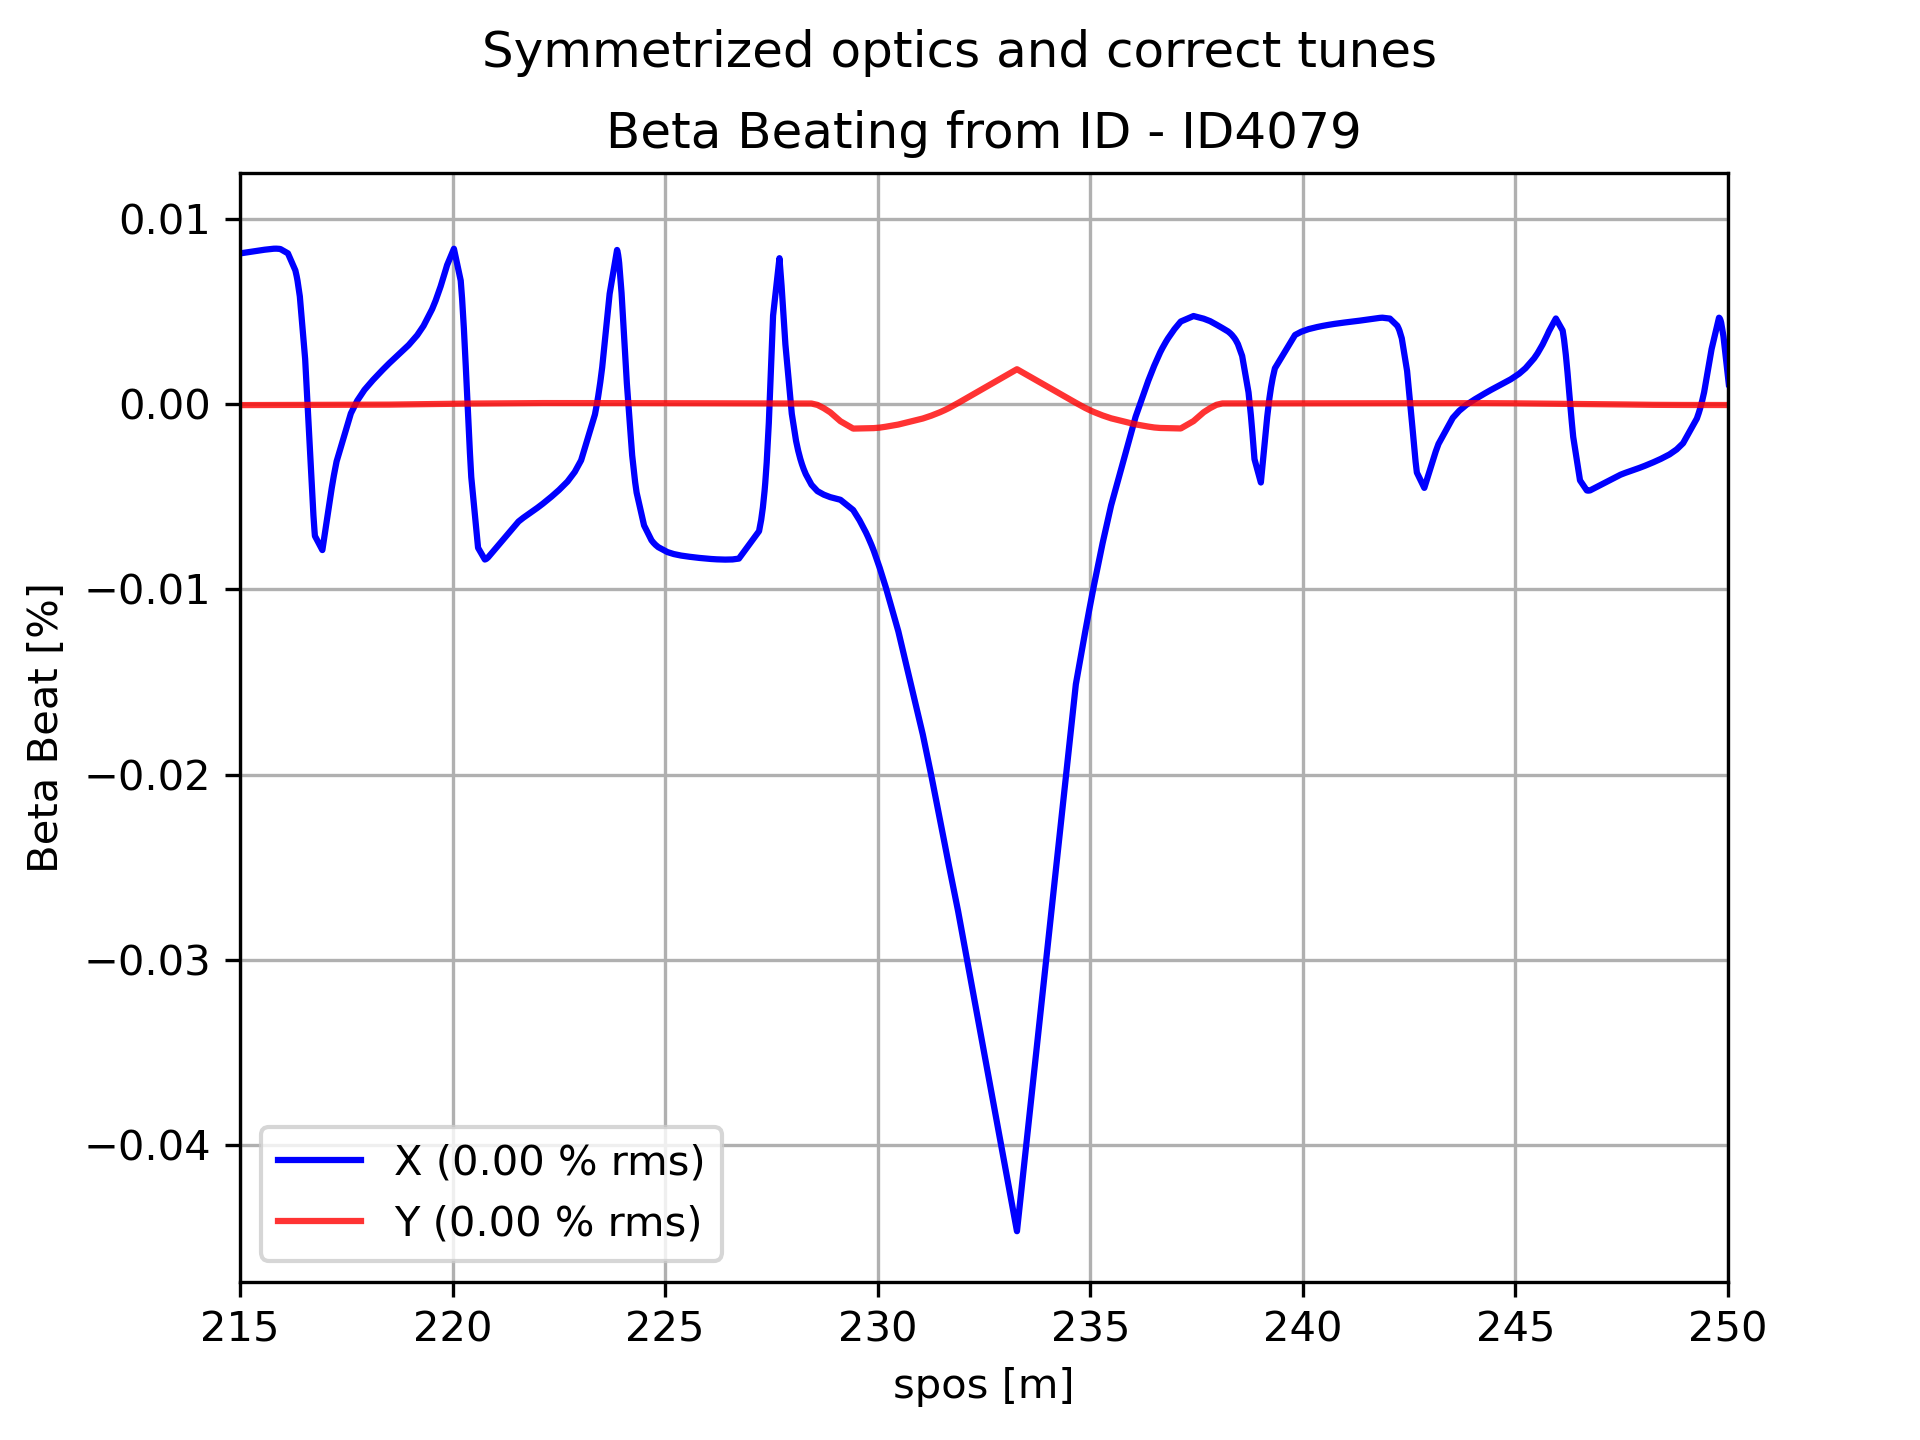
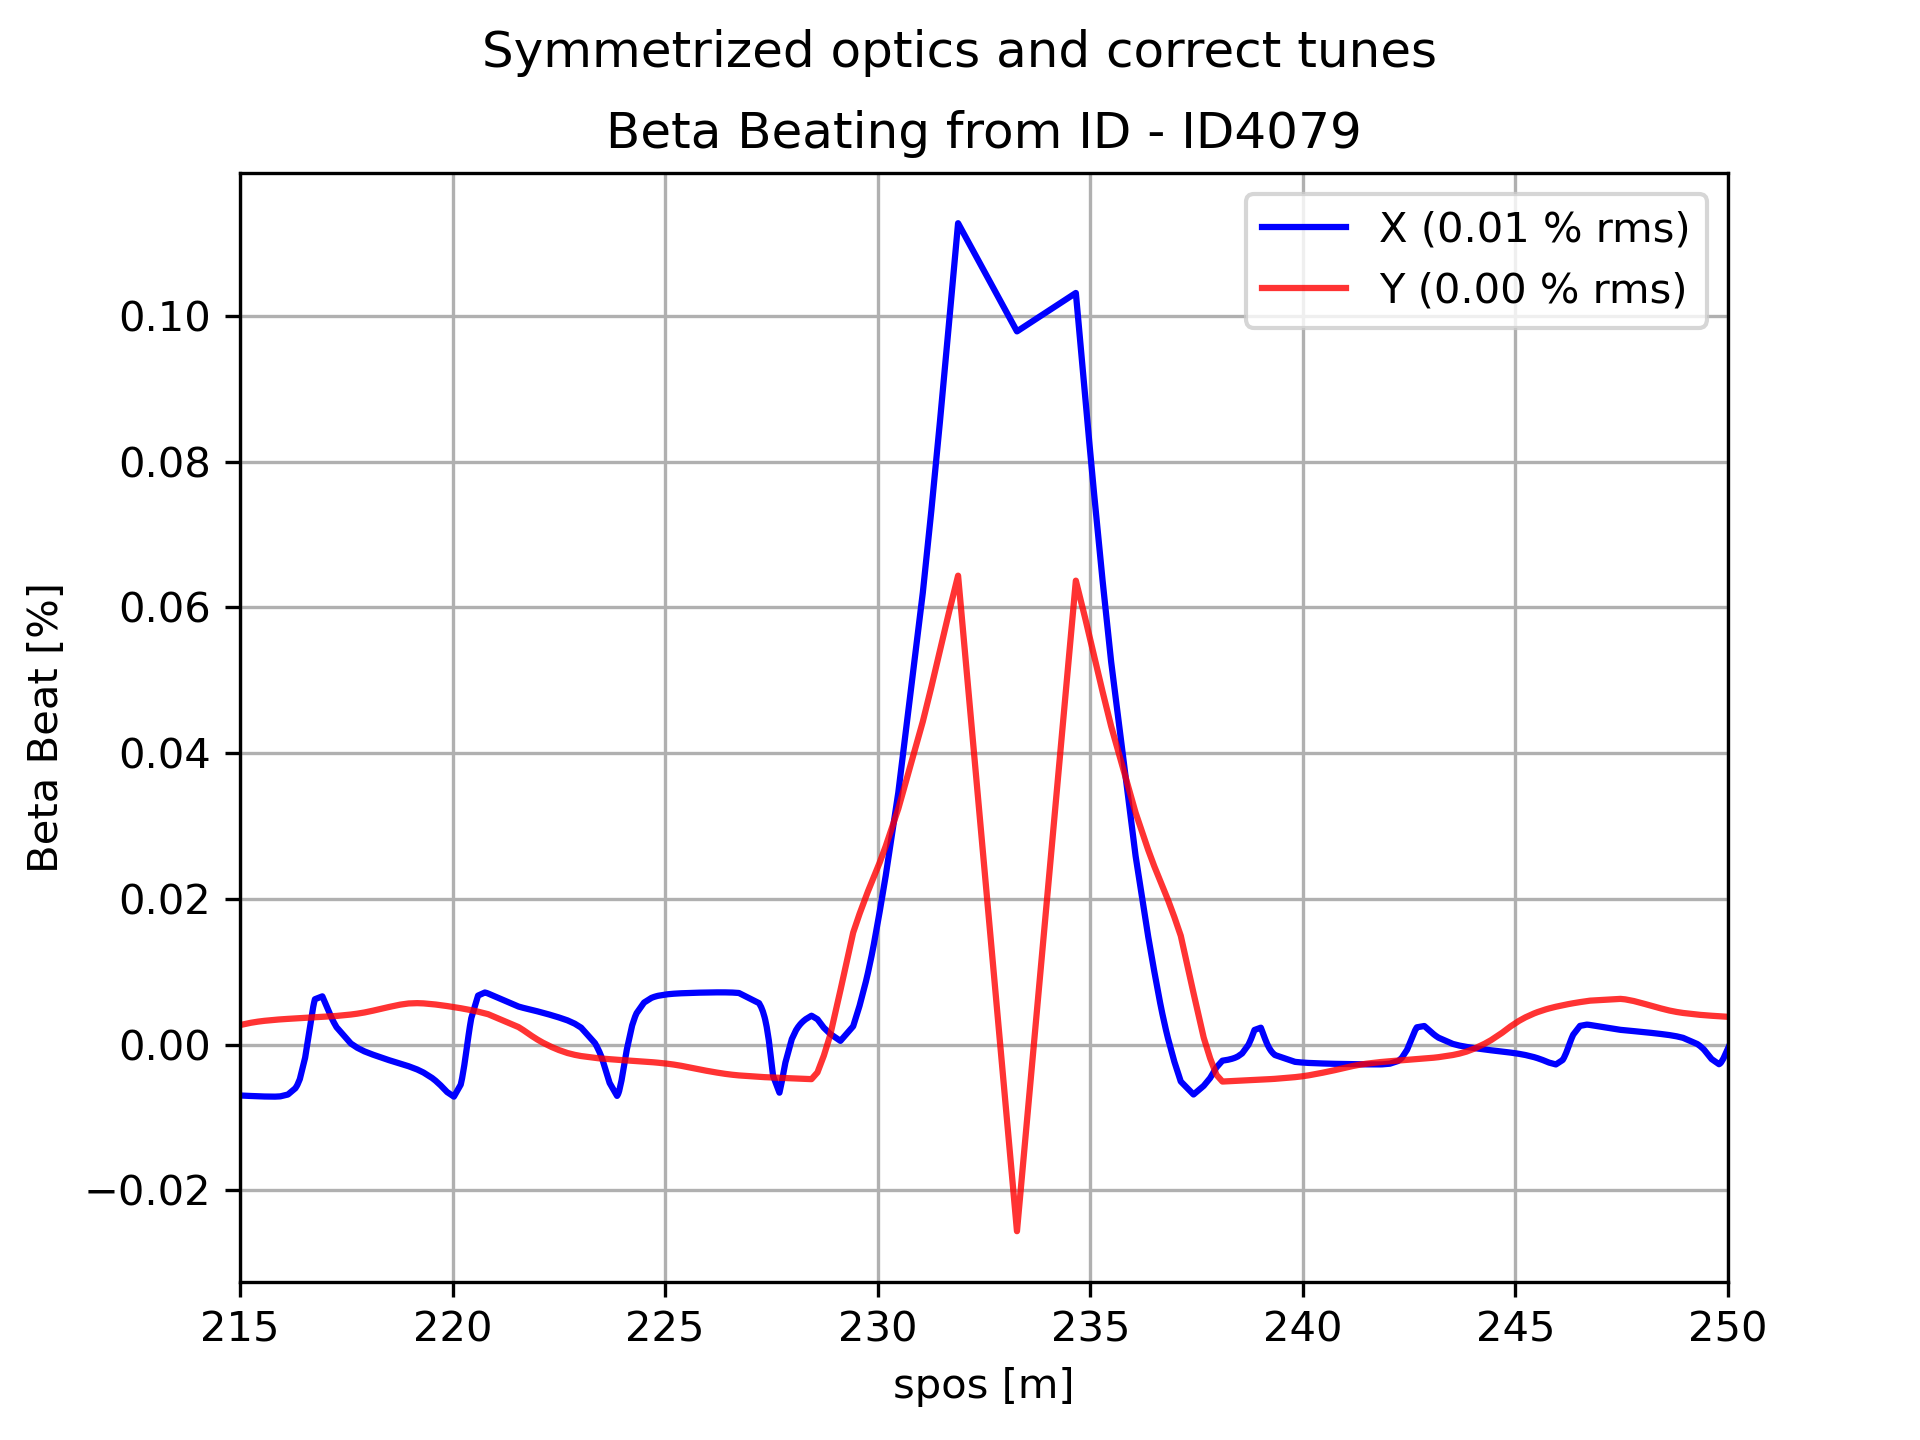
update repos

diff --git a/scripts/epu/check_kickmap.py b/scripts/epu/check_kickmap.py
@@ -11,6 +11,7 @@ from idanalysis import IDKickMap
 import utils
 from idanalysis import IDKickMap
 from pyaccel import lattice as pyacc_lat
+from run_rk_traj import PHASES, GAPS
 
 
 def calc_idkmap_kicks(plane_idx=0, plot_flag=False, idkmap=None):
@@ -25,8 +26,8 @@ def calc_idkmap_kicks(plane_idx=0, plot_flag=False, idkmap=None):
     pxf = (idkmap.kickx[0, :] + kickx_end) / brho**2
     pyf = (idkmap.kicky[0, :] + kicky_end) / brho**2
     if plot_flag:
-        plt.plot(1e3*rx0, 1e6*pxf, label='Kick X', color='C1')
-        plt.plot(1e3*rx0, 1e6*pyf, label='Kick Y', color='b')
+        plt.plot(1e3*rx0, 1e6*pxf, '.-', label='Kick X', color='C1')
+        plt.plot(1e3*rx0, 1e6*pyf, '.-', label='Kick Y', color='b')
         plt.xlabel('init rx [mm]')
         plt.ylabel('final px [urad]')
         plt.title('Kicks')
@@ -37,10 +38,10 @@ def calc_idkmap_kicks(plane_idx=0, plot_flag=False, idkmap=None):
     return rx0, ry0, pxf, pyf, rxf, ryf
 
 
-def create_model_ids(idconfig):
+def create_model_ids(phase, gap):
     """."""
     print('--- model with kickmap ---')
-    ids = utils.create_ids(idconfig=idconfig, rescale_kicks=1)
+    ids = utils.create_ids_test(rescale_kicks=1)
     model = pymodels.si.create_accelerator(ids=ids)
     twiss, *_ = pyaccel.optics.calc_twiss(model, indices='closed')
     print('length : {:.4f} m'.format(model.length))
@@ -50,14 +51,14 @@ def create_model_ids(idconfig):
 
 
 if __name__ == '__main__':
-    fname = "results/ID4079/kickmap-ID4079.txt"
-    idconfig = fname[8:14]
+    fname = "results/kickmap-IDFAC04.txt"
+    phase, gap = PHASES[2], GAPS[0]
     id_kickmap = IDKickMap(fname)
     rx0, ry0, pxf, pyf, rxf, ryf = calc_idkmap_kicks(
       idkmap=id_kickmap, plane_idx=0, plot_flag=True)
 
     # lattice with IDs
-    model, twiss, ids = create_model_ids(idconfig=idconfig)
+    model, twiss, ids = create_model_ids(phase, gap)
 
     famdata = pymodels.si.get_family_data(model)
     idx = famdata['EPU50']['index']
@@ -103,8 +104,8 @@ if __name__ == '__main__':
     pxf_array = np.array(pxf_list)
     pyf_array = np.array(pyf_list)
 
-    plt.plot(1e3*rx0, 1e6*pxf, '-', color='C1', label='Kick X  kickmap')
-    plt.plot(1e3*rx0, 1e6*pyf, '-', color='b', label='Kick Y  kickmap')
+    plt.plot(1e3*rx0, 1e6*pxf, '.-', color='C1', label='Kick X  kickmap')
+    plt.plot(1e3*rx0, 1e6*pyf, '.-', color='b', label='Kick Y  kickmap')
     plt.plot(1e3*rx0, 1e6*pxf_array, 'o', color='C1', label='Kick X  tracking')
     plt.plot(1e3*rx0, 1e6*pyf_array, 'o', color='b', label='Kick Y  tracking')
     plt.xlabel('x0 [mm]')

diff --git a/scripts/epu/generate_fieldmap.py b/scripts/epu/generate_fieldmap.py
@@ -35,15 +35,16 @@ def readfield(file_name):
         for i, line in enumerate(my_file):
             if i >= init:
                 list_data = line.split('\t')  # returns a list
-                try:
-                    data_col1.append(float(list_data[0]))
-                    data_col2.append(float(list_data[1]))
-                    data_col3.append(float(list_data[2]))
-                    data_col4.append(float(list_data[3]))
-                    data_col5.append(float(list_data[4]))
-                    data_col6.append(float(list_data[5]))
-                except ValueError:
-                    print('Error')
+                if len(list_data) > 1:
+                    try:
+                        data_col1.append(float(list_data[0]))
+                        data_col2.append(float(list_data[1]))
+                        data_col3.append(float(list_data[2]))
+                        data_col4.append(float(list_data[3]))
+                        data_col5.append(float(list_data[4]))
+                        data_col6.append(float(list_data[5]))
+                    except ValueError:
+                        print('Error')
 
     my_file.close()
     x = np.array(data_col1)
@@ -110,6 +111,6 @@ def generate_fieldmap(phase):
 
 if __name__ == "__main__":
     """."""
-    phase_list = ['00.00', '-16.39', '16.39', '-25.00', '25.00']
+    phase_list = ['16.39']
     for phase in phase_list:
         generate_fieldmap(phase)

diff --git a/scripts/epu/run_analysis.py b/scripts/epu/run_analysis.py
@@ -26,8 +26,8 @@ from utils import get_idconfig
 def create_model_ids():
     """."""
     print('--- model with kickmap ---')
+    ids = utils.create_ids_test(rescale_kicks=1)
     # ids = utils.create_ids(phase, gap, rescale_kicks=1)
-    ids = utils.create_ids(phase, gap, rescale_kicks=1)
     model = pymodels.si.create_accelerator(ids=ids)
     model.cavity_on = False
     model.radiation_on = 0
@@ -284,8 +284,8 @@ def analysis(plot_flag=True):
     orbcorr.correct_orbit_local(
         model0, model1, 'EPU50', correction_plane='both', plot=False)
 
-    # orb_results = orbcorr.correct_orbit_fb(
-    # model0, model1, 'EPU50', corr_system='FOFB')
+    orb_results = orbcorr.correct_orbit_fb(
+        model0, model1, 'EPU50', corr_system='FOFB')
 
     # calculate beta beating and tune delta tunes
     twiss1 = analysis_uncorrected_perturbation(
@@ -329,6 +329,6 @@ if __name__ == '__main__':
         phase = phase0
         for gap0 in GAPS:
             gap = gap0
-    # phase, gap = PHASES[2], GAPS[-1]
-            print(phase, gap)
-            analysis()
+    phase, gap = PHASES[2], GAPS[0]
+    print(phase, gap)
+    analysis()

diff --git a/scripts/epu/utils.py b/scripts/epu/utils.py
@@ -192,7 +192,7 @@ def create_ids_test(
     rescale_kicks = rescale_kicks if rescale_kicks is not None else 1.0
     rescale_length = \
         rescale_length if rescale_length is not None else 1
-    fname = 'kickmap_test.txt'
+    fname = 'kickmap_model.txt'
 
     idkmap = IDKickMap(kmap_fname=fname)
     kickx_up = rescale_kicks * idkmap.kickx_upstream  # [T².m²]

diff --git a/scripts/epu/run_generate_kickmap.py b/scripts/epu/run_generate_kickmap.py
@@ -35,6 +35,6 @@ if __name__ == "__main__":
     posx = np.linspace(-18, +18, 37) / 1000  # [m]
     posy = np.linspace(-0.49, +0.49, 3) / 1000  # [m]
 
-    idconfig_list = ['FAC01', 'FAC02', 'FAC03', 'FAC04', 'FAC05']
+    idconfig_list = ['FAC02']
     for idconfig in idconfig_list:
         run(idconfig, posx, posy)
